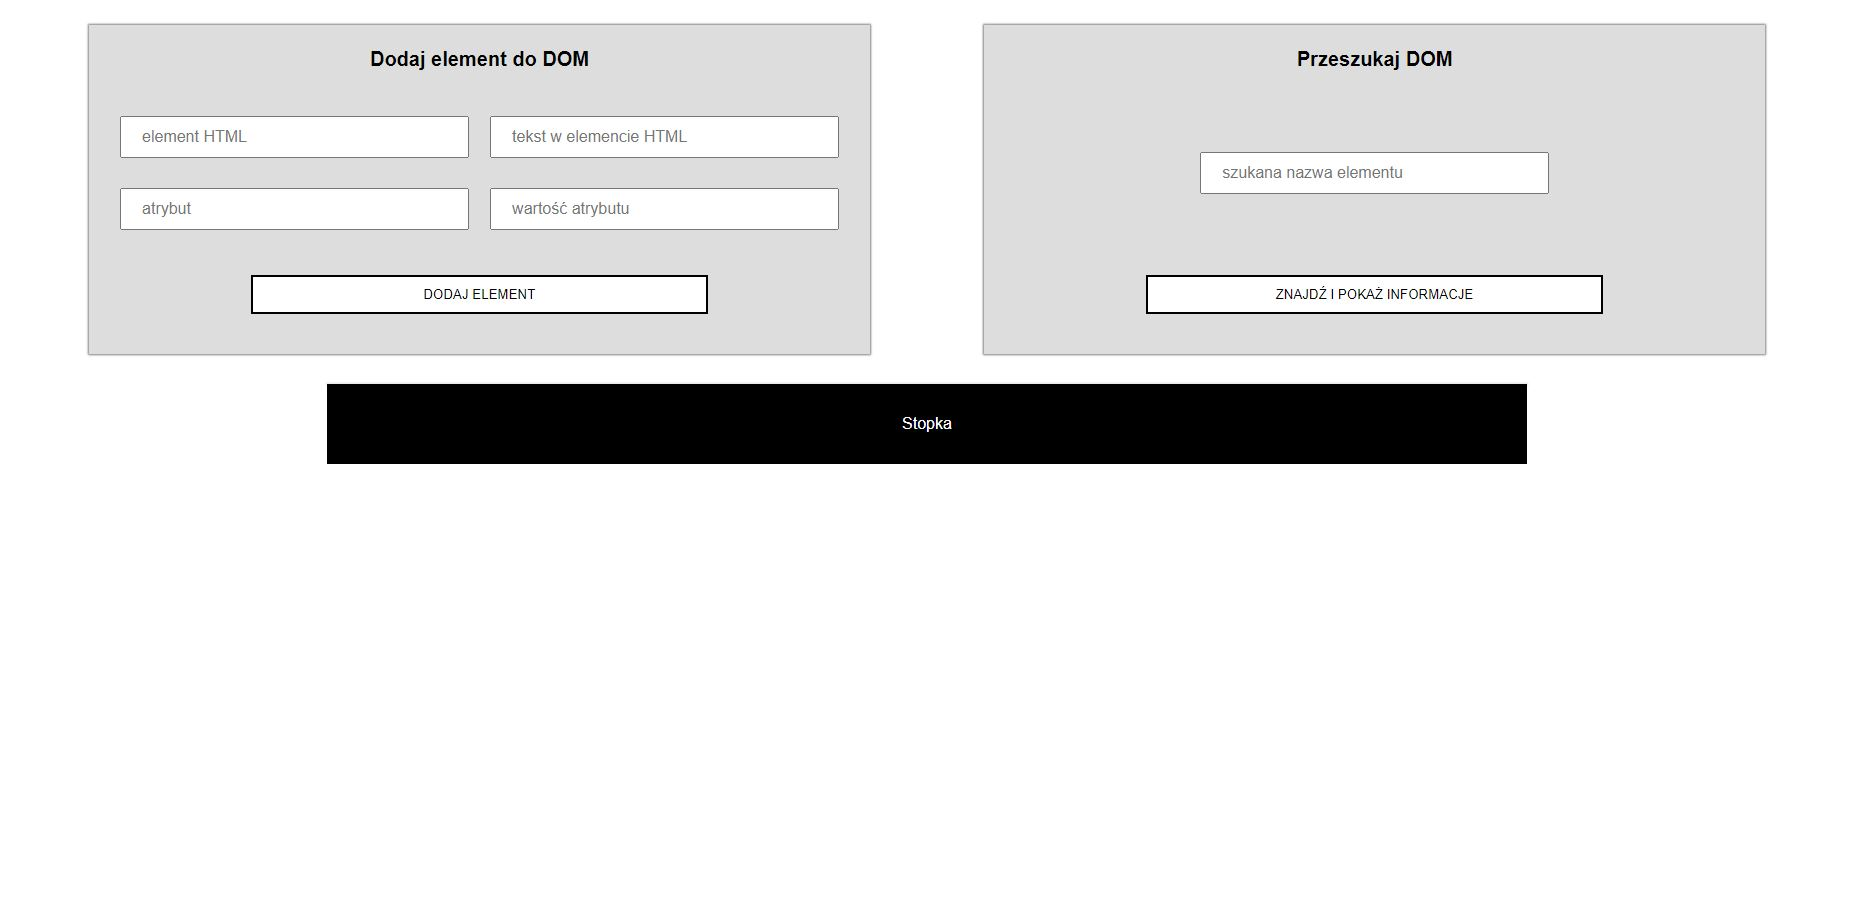
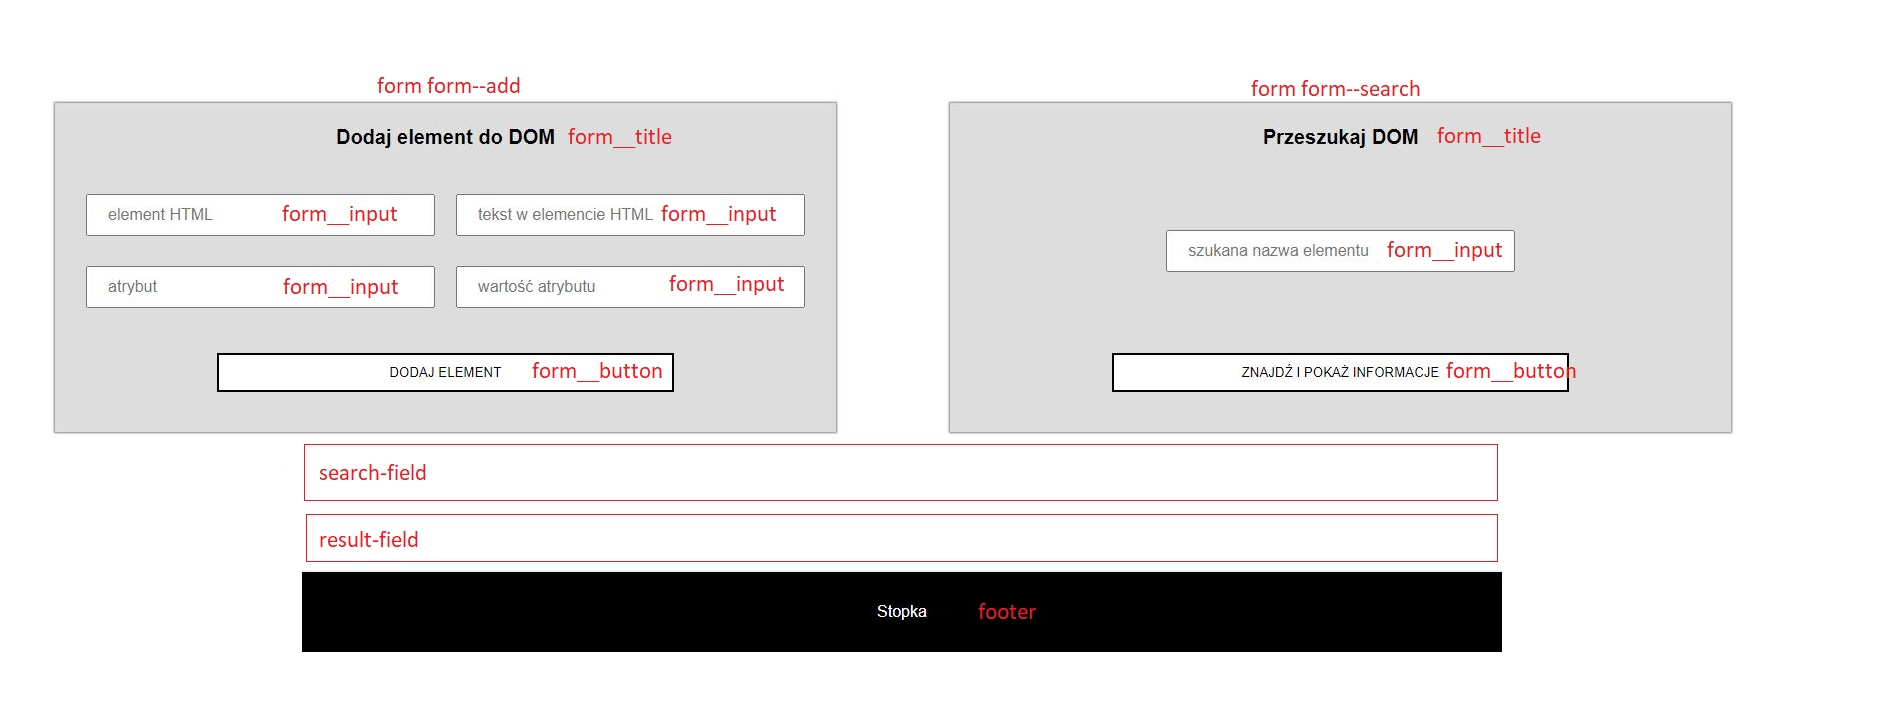
Add HTML structure and modify layout

diff --git a/index.html b/index.html
@@ -14,12 +14,26 @@
   <body>
     <div class="form-container">
       <form class="form form--add">
-        
+        <h2 class="form__title">Dodaj element do DOM</h2>
+        <input type="text" class="form__input" placeholder="element HTML" />
+        <input
+          type="text"
+          class="form__input"
+          placeholder="tekst w elemencie HTML"
+        />
+        <input type="text" class="form__input" placeholder="atrybut" />
+        <input type="text" class="form__input" placeholder="wartość atrybutu" />
+        <button class="form__button" type="submit">Dodaj element</button>
       </form>
-      <form class="form form--search"></form>
+      <form class="form form--search">
+        <h2 class="form__title">Przeszukaj DOM</h2>
+        <input type="text" class="form__input" placeholder="szukana nazwa elementu" />
+        <button class="form__button" type="submit">Znajdź i pokaż informacje</button>
+      </form>
     </div>
-    <div class="result"></div>
-    <footer></footer>
+    <div class="search-field"></div>
+    <div class="result-field"></div>
+    <footer>Stopka</footer>
 
     <script src="js/script.js"></script>
   </body>
